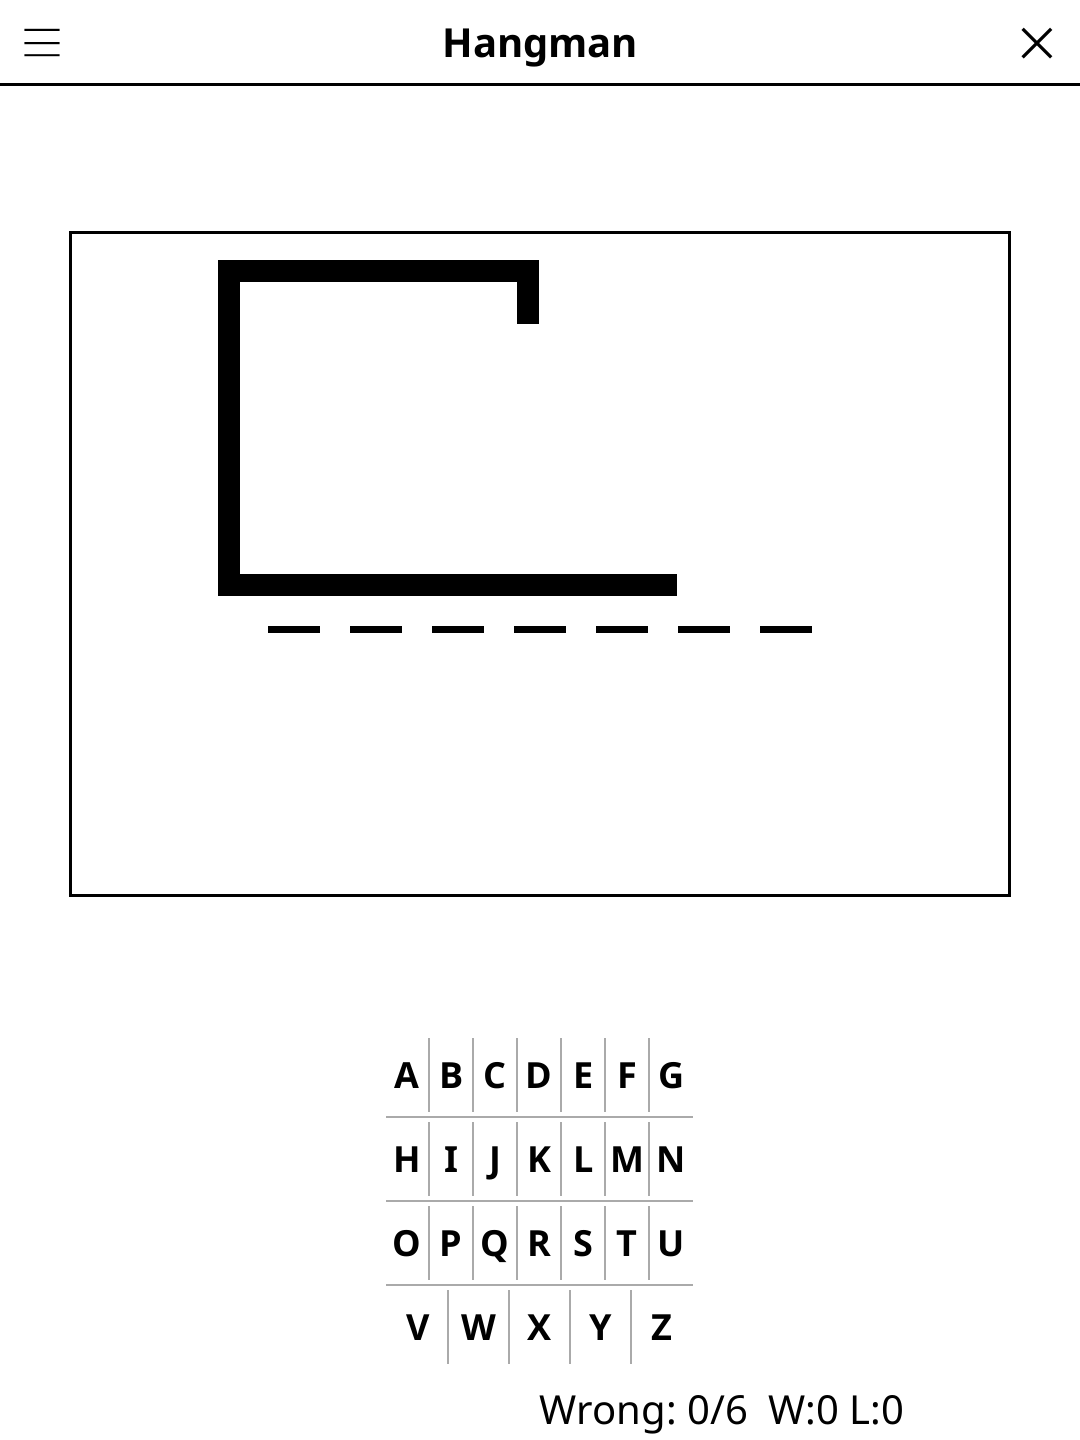
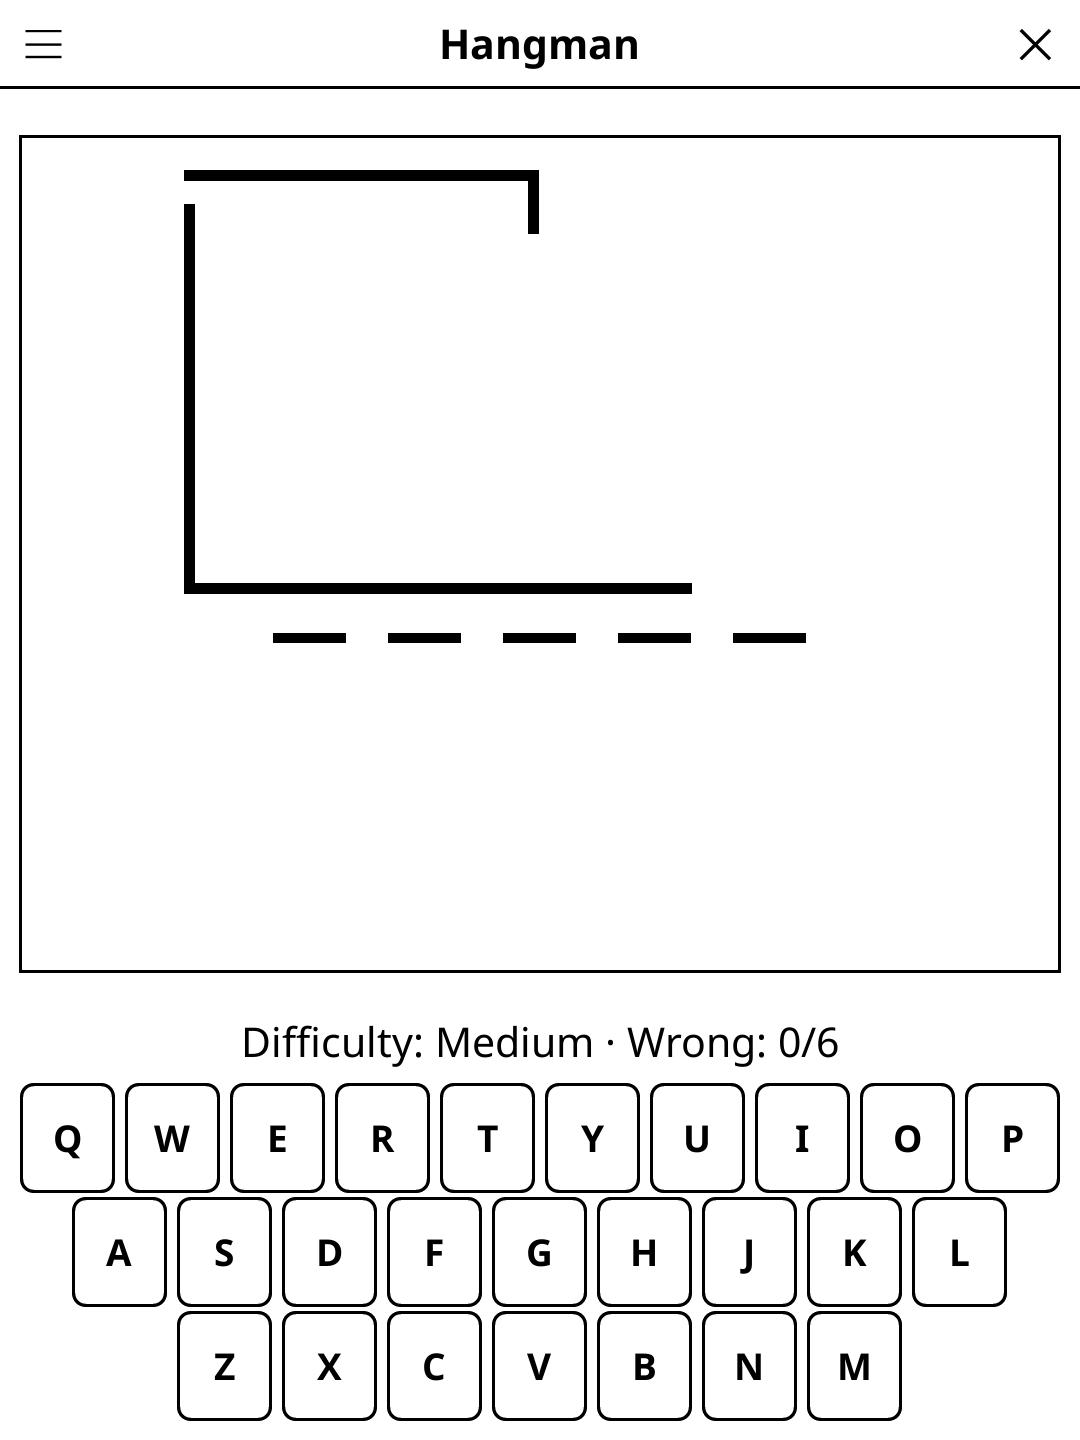
release: 1.2.0 -- redesigned screen, harmonised menu, New game at round end
Screen redesign (full-width action bar, unified pad, status line, larger
board), harmonised title-bar menu, and a "New game" button once the round
is over. See CHANGELOG.md.

diff --git a/CHANGELOG.md b/CHANGELOG.md
@@ -2,6 +2,33 @@
 
 All notable changes to this project will be documented in this file.
 
+## [1.2.0] - 2026-10-30
+
+### Added
+- "New game" appears under the keyboard once the word is found or the
+  hangman is complete, so the next round no longer needs the menu.
+
+### Changed
+- Redesigned play screen, in line with the other games: the board fills the
+  available room and the status line wraps in landscape instead of being cut
+  off. While playing it shows the difficulty and wrong guesses; the
+  win/loss score only appears between rounds.
+- The letter keyboard is the shared one used by Wordle, Word Ladder and
+  Cryptogram, laid out like your own keyboard: it follows KOReader's
+  language (AZERTY in French, QWERTZ in German), not the word list's.
+  Guessed letters are shaded -- dark for a miss, light for a hit -- instead
+  of being replaced by a dot, so you can still see which letters you tried.
+- Title-bar menu in the same order as every other game, with the current
+  values shown: "Difficulty: Medium" and "Language: EN" instead of bare
+  "Medium" and "EN".
+- New README screenshot.
+
+### Fixed
+- Long words no longer run past the edges of the board: the word and the
+  wrong-letters line are sized to fit, whatever letters get revealed.
+- The gallows and figure lines were twice as thick as intended on a wide
+  board, filling in the head and merging the arms.
+
 ## [1.1.15] - 2026-10-07
 
 ### Fixed

diff --git a/README.md b/README.md
@@ -22,7 +22,6 @@ the hangman drawing. Reveal the full word before the drawing is complete to win.
 - **Configurable word length** — short (3–5), medium (6–8), long (9+)
 - **Difficulty levels** — Easy (8 wrong guesses allowed), Medium (6), Hard (4)
 - **Category mode** — words from specific categories (animals, countries, food…)
-- **Hint** — reveal one random letter at the cost of one wrong-guess allowance
 - **ASCII art drawing** — progressive hangman illustration rendered in monospace
 - **Statistics** — win/loss ratio and average guesses
 - **Auto-save** — in-progress game restored on next launch
@@ -32,10 +31,9 @@ the hangman drawing. Reveal the full word before the drawing is complete to win.
 | Action | How |
 |--------|-----|
 | Guess a letter | Tap it on the on-screen alphabet |
-| Request a hint | Tap **Hint** |
 | New game | Tap **New game** |
-| Change language | Tap **Lang** |
-| Change difficulty | Tap **Diff** |
+| Change language | Tap **Language** |
+| Change difficulty | Tap **Difficulty** |
 | Show rules | Tap **Rules** |
 
 ## Why e-ink friendly?
